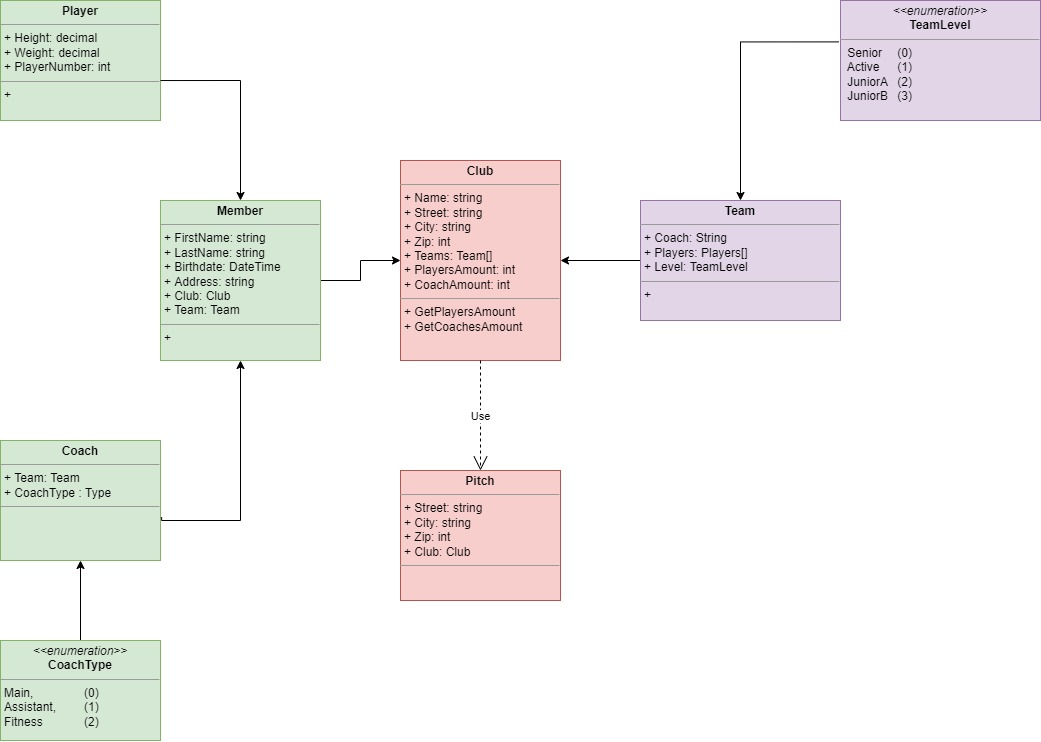
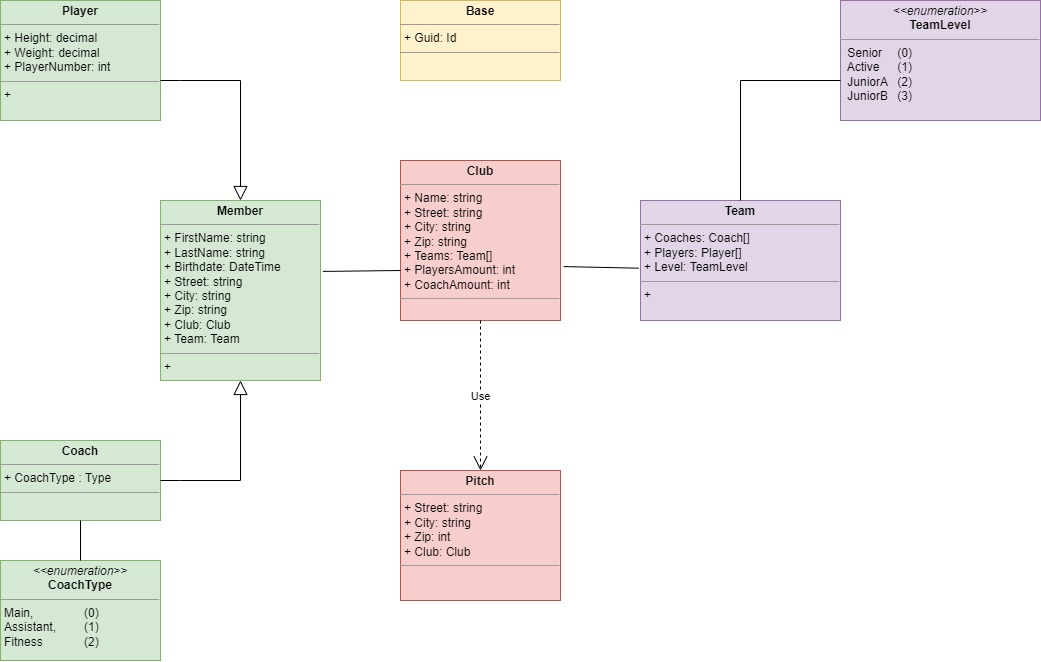
I changed and updated the Class Diiagramm and the Code according to the comments.

diff --git a/src/backend/ClubManagement/ClubManagement.Domain/Member.cs b/src/backend/ClubManagement/ClubManagement.Domain/Member.cs
@@ -11,34 +11,11 @@ namespace ClubManagement.Domain
         public string FirstName { get; set; }
         public string LastName { get; set; }
         public DateTime BirthDate { get; set; }
-        public string Address {get; set; }
+        public string Street { get; set; }
+        public string City { get; set; }
+        public string Zip { get; set; }
         public Club Club {get; set; } 
         public Team Team { get; set; }
 
-        //public Member()
-        //{
-
-        //}
-        //public Member(
-        //    //string firstName, string lastName, DateTime birthDate, string address, Club club, Team team, float Height, float Weight, int PlayerNumber
-        //    )
-        //{
-        //    FirstName = firstName;
-        //    LastName = lastName;
-        //    BirthDate = birthDate;
-        //    Address = address;
-        //    Club = club;
-        //    team = team;
-        //}
-
-        //public Member(string firstName, string lastName, DateTime birthDate, string address, Team team, float Height, float Weight, int PlayerNumber)
-        //{
-        //    FirstName = firstName;
-        //    LastName = lastName;
-        //    BirthDate = birthDate;
-        //    Address = address;
-        //    Club = defaultClub;
-        //    Team = team;
-        //}
     }
 }
